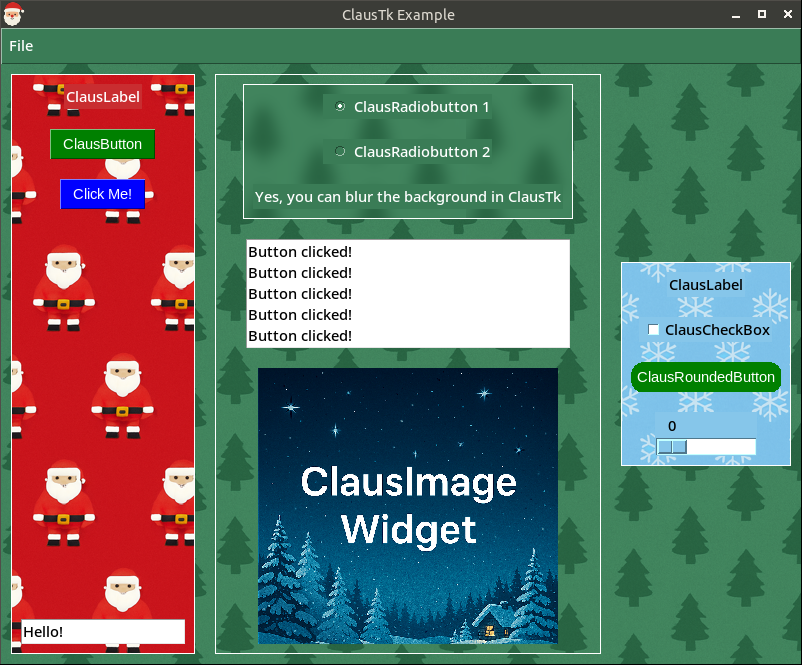
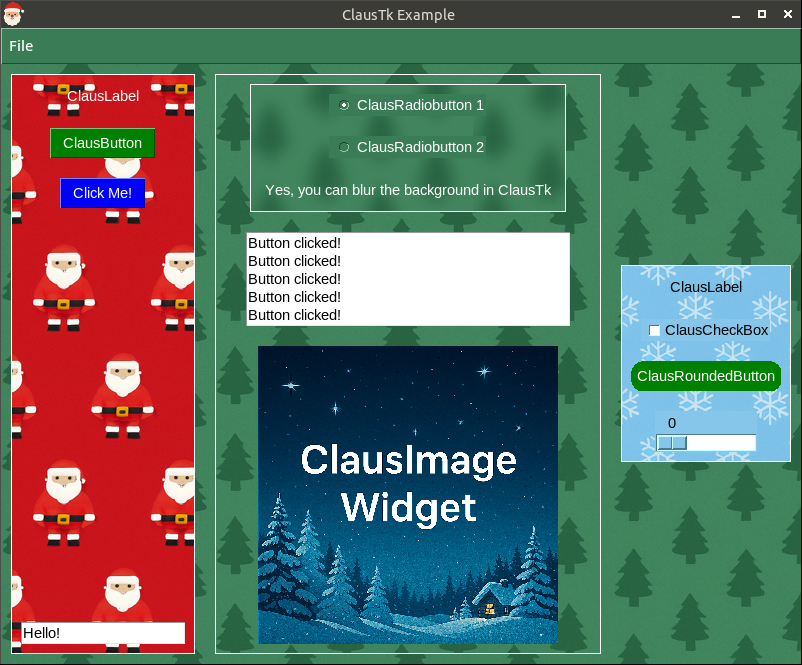
Version 0.3.0: improved labels and fixed font bug

diff --git a/docs/label.html b/docs/label.html
@@ -38,7 +38,7 @@
 			</header>
 			<pre>
 				<code class="language-python">
-label = claustk.ClausLabel(root, text="This is label")
+label = claustk.ClausLabel(root, text="This is label.")
 label.pack(padx=10, pady=10)
 				</code>
 			</pre>
@@ -52,11 +52,49 @@ label.pack(padx=10, pady=10)
 				</thead>
 				<tbody>
 					<tr>
-						<td><i>Same arguments as tkinter.Label</i></td>
+						<td><b>width</b></td>
+						<td>int value in px, for example, <code class="language-python">width=250</code></td>
+					</tr>
+					<tr>
+						<td><b>height</b></td>
+						<td>int value in px, for example, <code class="language-python">height=50</code></td>
+					</tr>
+					<tr>
+						<td><b>text</b></td>
+						<td>str, label text</td>
+					</tr>
+					<tr>
+						<td><b>font</b></td>
+						<td>tuple, for example, <code class="language-python">font=("Arial", 20)</code></td>
+					</tr>
+					<tr>
+						<td><b>justify</b></td>
+						<td>str, "center", "left", "right"</code></td>
+					</tr>
+					<tr>
+						<td><b>bg_color</b></td>
+						<td>str, label background color, for example <code class="language-python">bg_color="red"</code> or <code class="language-python">bg_color="#f0f0f0"</code> or <code class="language-python">bg_color="transparent"</code> (by default)</td>
+					</tr>
+					<tr>
+						<td><b>fg_color</b></td>
+						<td>str, label text color</td>
+					</tr>
+					<tr>
+						<td><b>cursor</b></td>
+						<td>str, label cursor</td>
+					</tr>
+					<tr>
+						<td><i>Other tkinter.Canvas arguments</i></td>
 						<td></td>
 					</tr>
 				</tbody>
 			</table>
+
+			<h2>Methods</h2>
+			<ul>
+				<li><b>.config()</b></li>
+				<li><b>.cget()</b></li>
+			</ul>
 		</article>
 
 		<script src="https://cdnjs.cloudflare.com/ajax/libs/prism/1.29.0/prism.min.js"></script>

diff --git a/docs/rounded-button.html b/docs/rounded-button.html
@@ -90,6 +90,10 @@ rounded_button.pack(padx=10, pady=10)
 						<td><b>cursor</b></td>
 						<td>str, button cursor, by default <code class="language-python">cursor="hand2"</code></td>
 					</tr>
+					<tr>
+						<td><i>Other tkinter.Canvas arguments</i></td>
+						<td></td>
+					</tr>
 				</tbody>
 			</table>
 

diff --git a/src/claustk/widgets/claus_label.py b/src/claustk/widgets/claus_label.py
@@ -1,13 +1,130 @@
 import tkinter as tk
+import tkinter.font as tkfont
+
+from PIL import Image, ImageTk
 
 
-class ClausLabel(tk.Label):
-    def __init__(self, master, **kwargs):
-        defaults = {
-            "bg": master.avg_color,
-            "fg": master.contrast_color,
-            "text": "ClausLabel",
-            "font": ("Arial, 11"),
-        }
-        defaults.update(kwargs)
-        super().__init__(master, **defaults)
+class ClausLabel(tk.Canvas):
+    def __init__(
+        self,
+        master,
+        width=150,
+        height=30,
+        text="ClausLabel",
+        font=("Arial", 11),
+        justify="center",
+        bg_color="transparent",
+        fg_color=None,
+        cursor="",
+        **kwargs,
+    ):
+        tk.Canvas.__init__(
+            self,
+            master,
+            width=width,
+            height=height,
+            highlightthickness=0,
+            **kwargs,
+        )
+
+        self.width = width
+        self.height = height
+        self.text = text
+        self.font = font
+        self.justify = justify
+        self.bg_color = bg_color
+        self.fg_color = master.contrast_color if fg_color is None else fg_color
+        self.cursor = cursor
+
+        self.delete("all")
+
+        self._create_label()
+
+        self.bind("<Configure>", self._create_bg)
+
+    def _create_bg(self, event=None):
+        self.delete("label_bg")
+
+        if self.bg_color == "transparent":
+            w, h = self.master.winfo_width(), self.master.winfo_height()
+            full_bg = Image.new("RGB", (w, h))
+            bw, bh = self.master._background.width, self.master._background.height
+            for x in range(0, w, bw):
+                for y in range(0, h, bh):
+                    full_bg.paste(self.master._background, (x, y))
+
+            x, y, w, h = self.winfo_x(), self.winfo_y(), self.winfo_width(), self.winfo_height()
+            cropped = full_bg.crop((x, y, x + w, y + h))
+            self.bg_piece = ImageTk.PhotoImage(cropped)
+
+            self.create_image(0, 0, image=self.bg_piece, anchor="nw", tags="label_bg")
+            self.tag_lower("label_bg")
+        else:
+            self.configure(bg=self.bg_color)
+
+    def _create_label(self):
+        font_obj = tkfont.Font(font=self.font)
+        lines = self.text.split("\n")
+
+        max_width = max(font_obj.measure(line) for line in lines)
+        line_height = font_obj.metrics("linespace")
+        total_height = line_height * len(lines)
+
+        self.width = max_width + 10
+        self.height = total_height + 6
+        self.configure(width=self.width, height=self.height)
+
+        self.create_text(
+            self.width / 2,
+            self.height / 2,
+            text=self.text,
+            font=self.font,
+            fill=self.fg_color,
+            tags="label",
+            anchor="center",
+            justify=self.justify,
+        )
+
+        self.configure(cursor=self.cursor)
+
+    def config(self, **kwargs):
+        self.delete("label")
+        if "width" in kwargs:
+            self.width = kwargs["width"]
+            self.configure(width=self.width)
+        if "height" in kwargs:
+            self.height = kwargs["height"]
+            self.configure(height=self.height)
+        if "text" in kwargs:
+            self.text = kwargs["text"]
+        if "font" in kwargs:
+            self.font = kwargs["font"]
+        if "justify" in kwargs:
+            self.justify = kwargs["justify"]
+        if "bg_color" in kwargs:
+            self.bg_color = kwargs["bg_color"]
+        if "fg_color" in kwargs:
+            self.fg_color = kwargs["fg_color"]
+        if "cursor" in kwargs:
+            self.cursor = kwargs["cursor"]
+        self._create_label()
+
+    def cget(self, key):
+        if key == "width":
+            return self.width
+        elif key == "height":
+            return self.height
+        elif key == "text":
+            return self.text
+        elif key == "font":
+            return self.font
+        elif key == "justify":
+            return self.justify
+        elif key == "bg_color":
+            return self.bg_color
+        elif key == "fg_color":
+            return self.fg_color
+        elif key == "cursor":
+            return self.cursor
+        else:
+            raise KeyError(f"Unknown option: '{key}'")

diff --git a/src/claustk/widgets/claus_radiobutton.py b/src/claustk/widgets/claus_radiobutton.py
@@ -8,7 +8,7 @@ class ClausRadiobutton(tk.Radiobutton):
             "fg": master.contrast_color,
             "selectcolor": master.avg_color,
             "text": "ClausRadioButton",
-            "font": ("Arial, 11"),
+            "font": ("Arial", 11),
             "highlightthickness": 0,
         }
         defaults.update(kwargs)

diff --git a/src/claustk/widgets/claus_slider.py b/src/claustk/widgets/claus_slider.py
@@ -6,7 +6,7 @@ class ClausSlider(tk.Scale):
         defaults = {
             "bg": master.avg_color,
             "fg": master.contrast_color,
-            "font": ("Arial, 11"),
+            "font": ("Arial", 11),
             "highlightthickness": 0,
             "orient": "horizontal",
             "troughcolor": "white",

diff --git a/src/claustk/widgets/claus_checkbox.py b/src/claustk/widgets/claus_checkbox.py
@@ -7,7 +7,7 @@ class ClausCheckbox(tk.Checkbutton):
             "bg": master.avg_color,
             "fg": master.contrast_color,
             "text": "ClausCheckBox",
-            "font": ("Arial, 11"),
+            "font": ("Arial", 11),
             "highlightthickness": 0,
         }
         defaults.update(kwargs)

diff --git a/src/claustk/widgets/claus_line_edit.py b/src/claustk/widgets/claus_line_edit.py
@@ -4,7 +4,7 @@ import tkinter as tk
 class ClausLineEdit(tk.Entry):
     def __init__(self, master, **kwargs):
         defaults = {
-            "font": ("Arial, 11"),
+            "font": ("Arial", 11),
             "highlightthickness": 0,
         }
         defaults.update(kwargs)

diff --git a/src/claustk/widgets/claus_text_edit.py b/src/claustk/widgets/claus_text_edit.py
@@ -6,7 +6,7 @@ class ClausTextEdit(tk.Text):
         defaults = {
             "width": 40,
             "height": 5,
-            "font": ("Arial, 11"),
+            "font": ("Arial", 11),
             "highlightthickness": 0,
         }
         defaults.update(kwargs)
